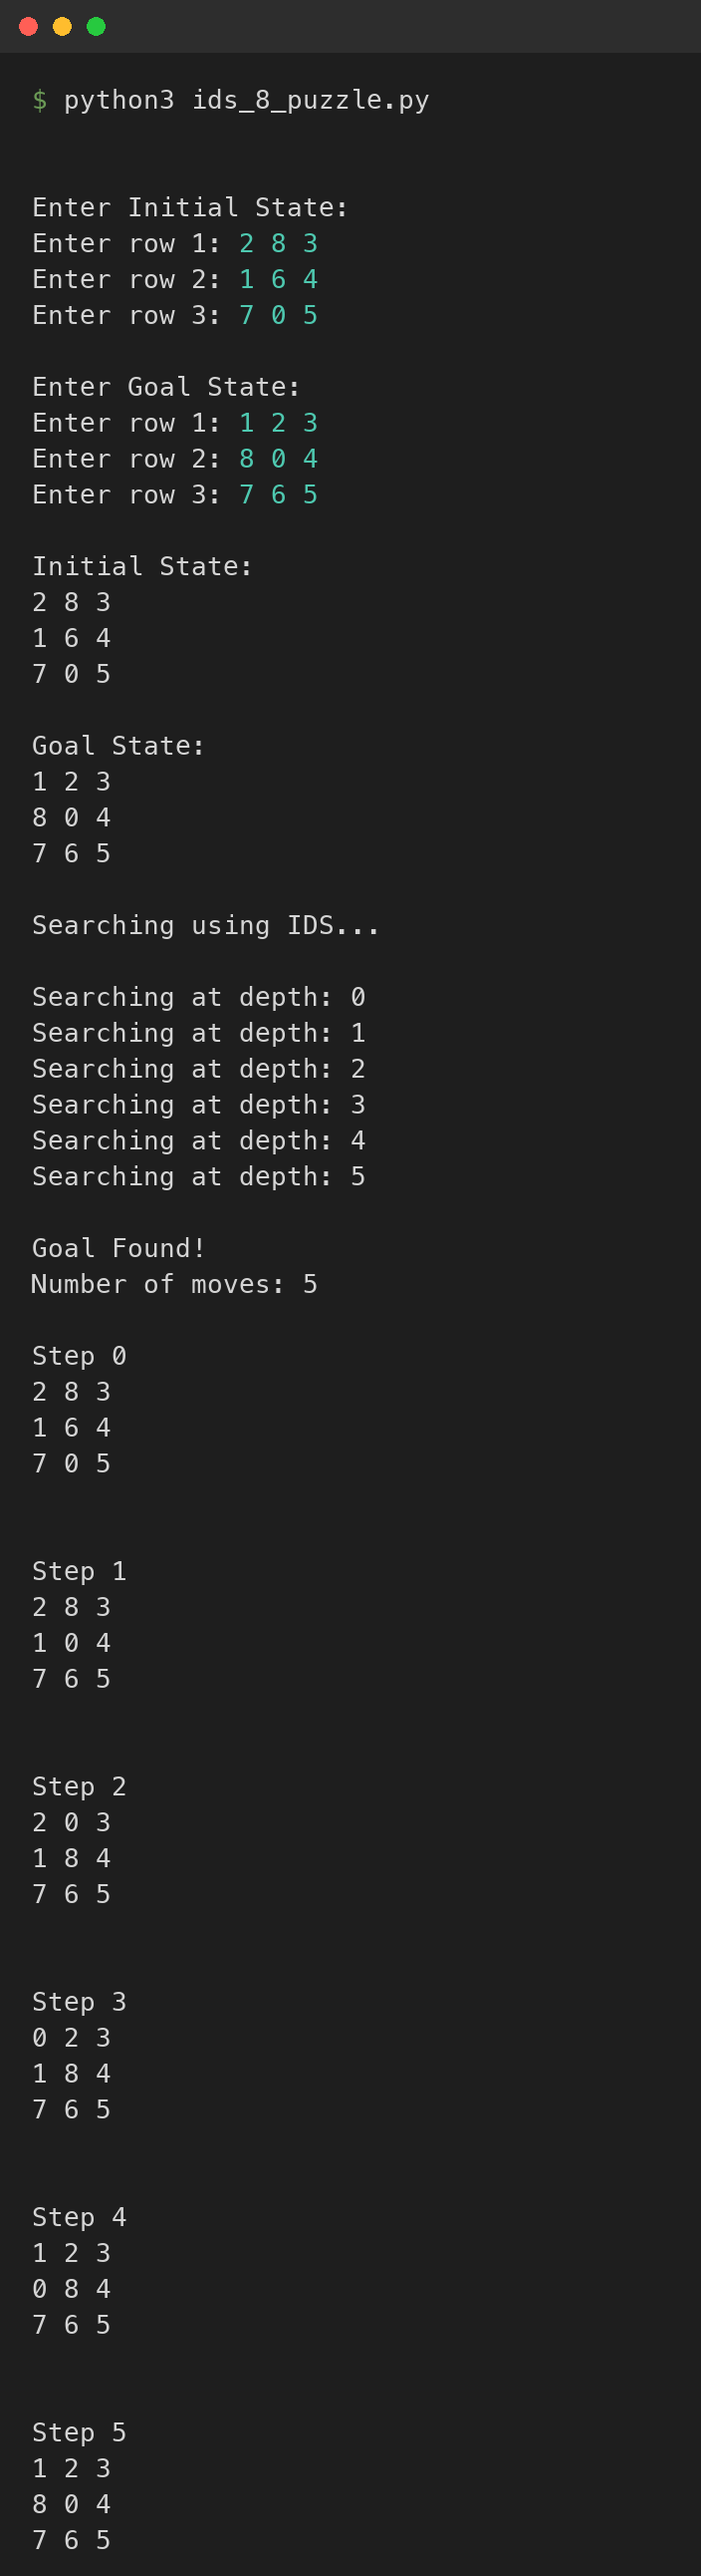
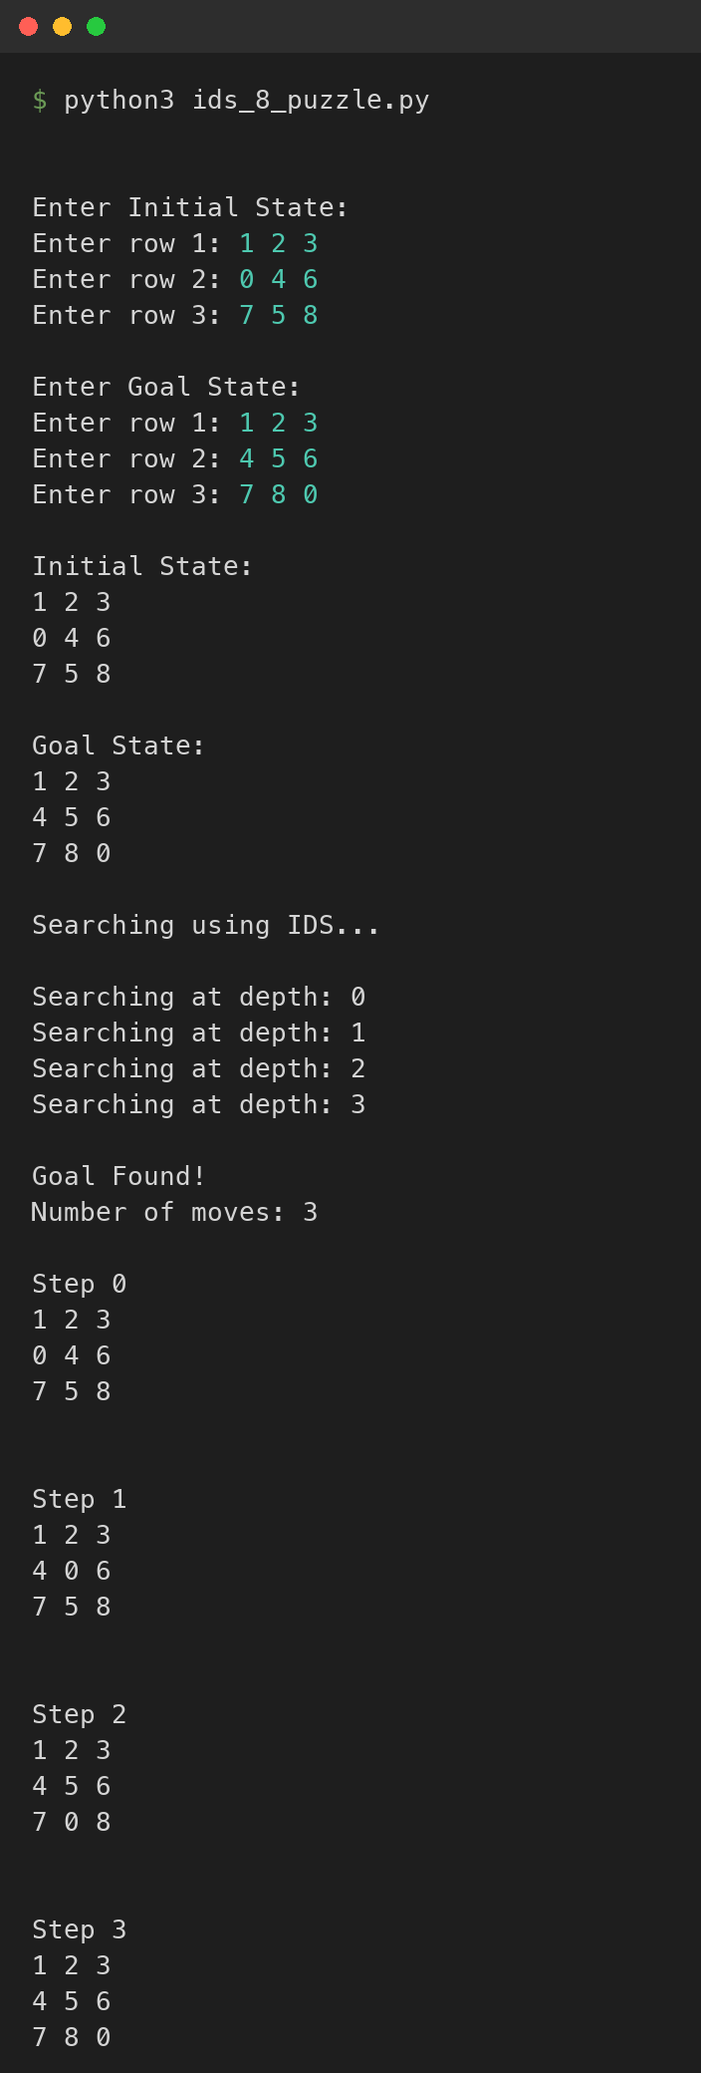
Match DFS move order to the lab's DFS tree
Expand the blank in the order Left, Down, Up, Right so DFS follows the
worked example from the lab (1 2 3 / _ 4 6 / 7 5 8 reaches the goal at
depth 11) instead of wandering into a path of tens of thousands of
moves. Re-render the DFS and IDS outputs with that example.

diff --git a/uninformed-search/8-puzzle-dfs/dfs_8_puzzle.py b/uninformed-search/8-puzzle-dfs/dfs_8_puzzle.py
@@ -13,10 +13,12 @@ def get_neighbors(state):
     row = zero // 3
     col = zero % 3
 
+    # Move order of the blank: Left, Down, Up, Right
+    # (same order as the DFS tree worked out in the lab)
     moves = [
-        (-1, 0),  # Up
-        (1, 0),   # Down
         (0, -1),  # Left
+        (1, 0),   # Down
+        (-1, 0),  # Up
         (0, 1)    # Right
     ]
 

diff --git a/uninformed-search/8-puzzle-dfs/README.md b/uninformed-search/8-puzzle-dfs/README.md
@@ -7,7 +7,7 @@
 1. Represent a state as a 9-tuple, with `0` as the blank.
 2. Check solvability first: start and goal must have the same inversion-count parity.
 3. Use a stack (LIFO) of `(state, path)` and a visited set.
-4. Pop a state, generate its children by sliding the blank Up/Down/Left/Right, and push the unvisited ones.
+4. Pop a state, generate its children by sliding the blank in the order Left, Down, Up, Right (the order used in the lab's DFS tree), and push the unvisited ones.
 5. Stop when the goal state is reached and print the path.
 
 ## Run
